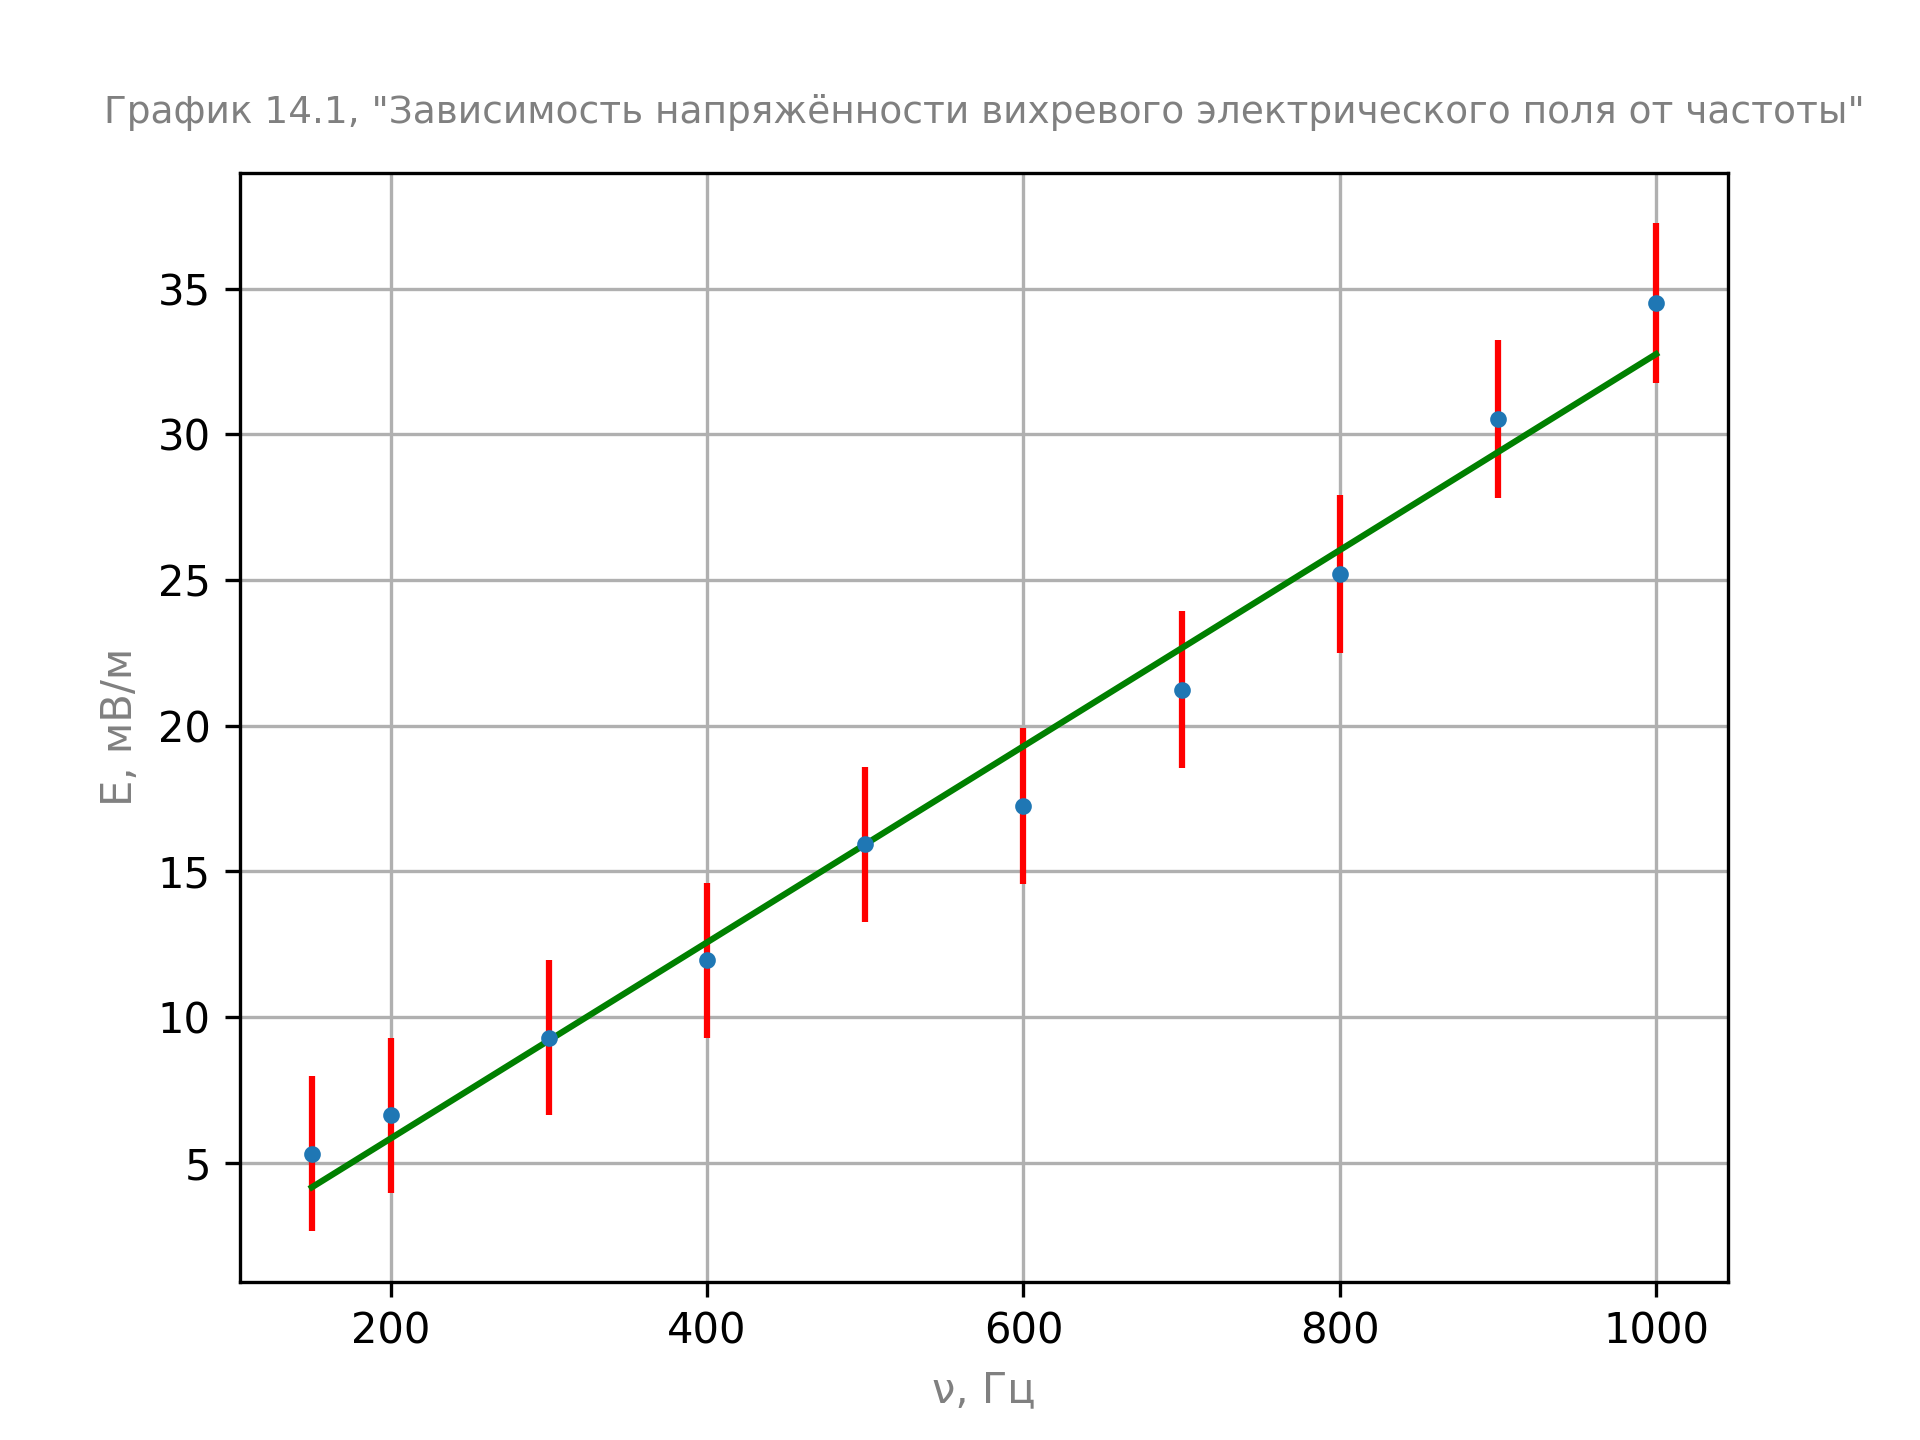
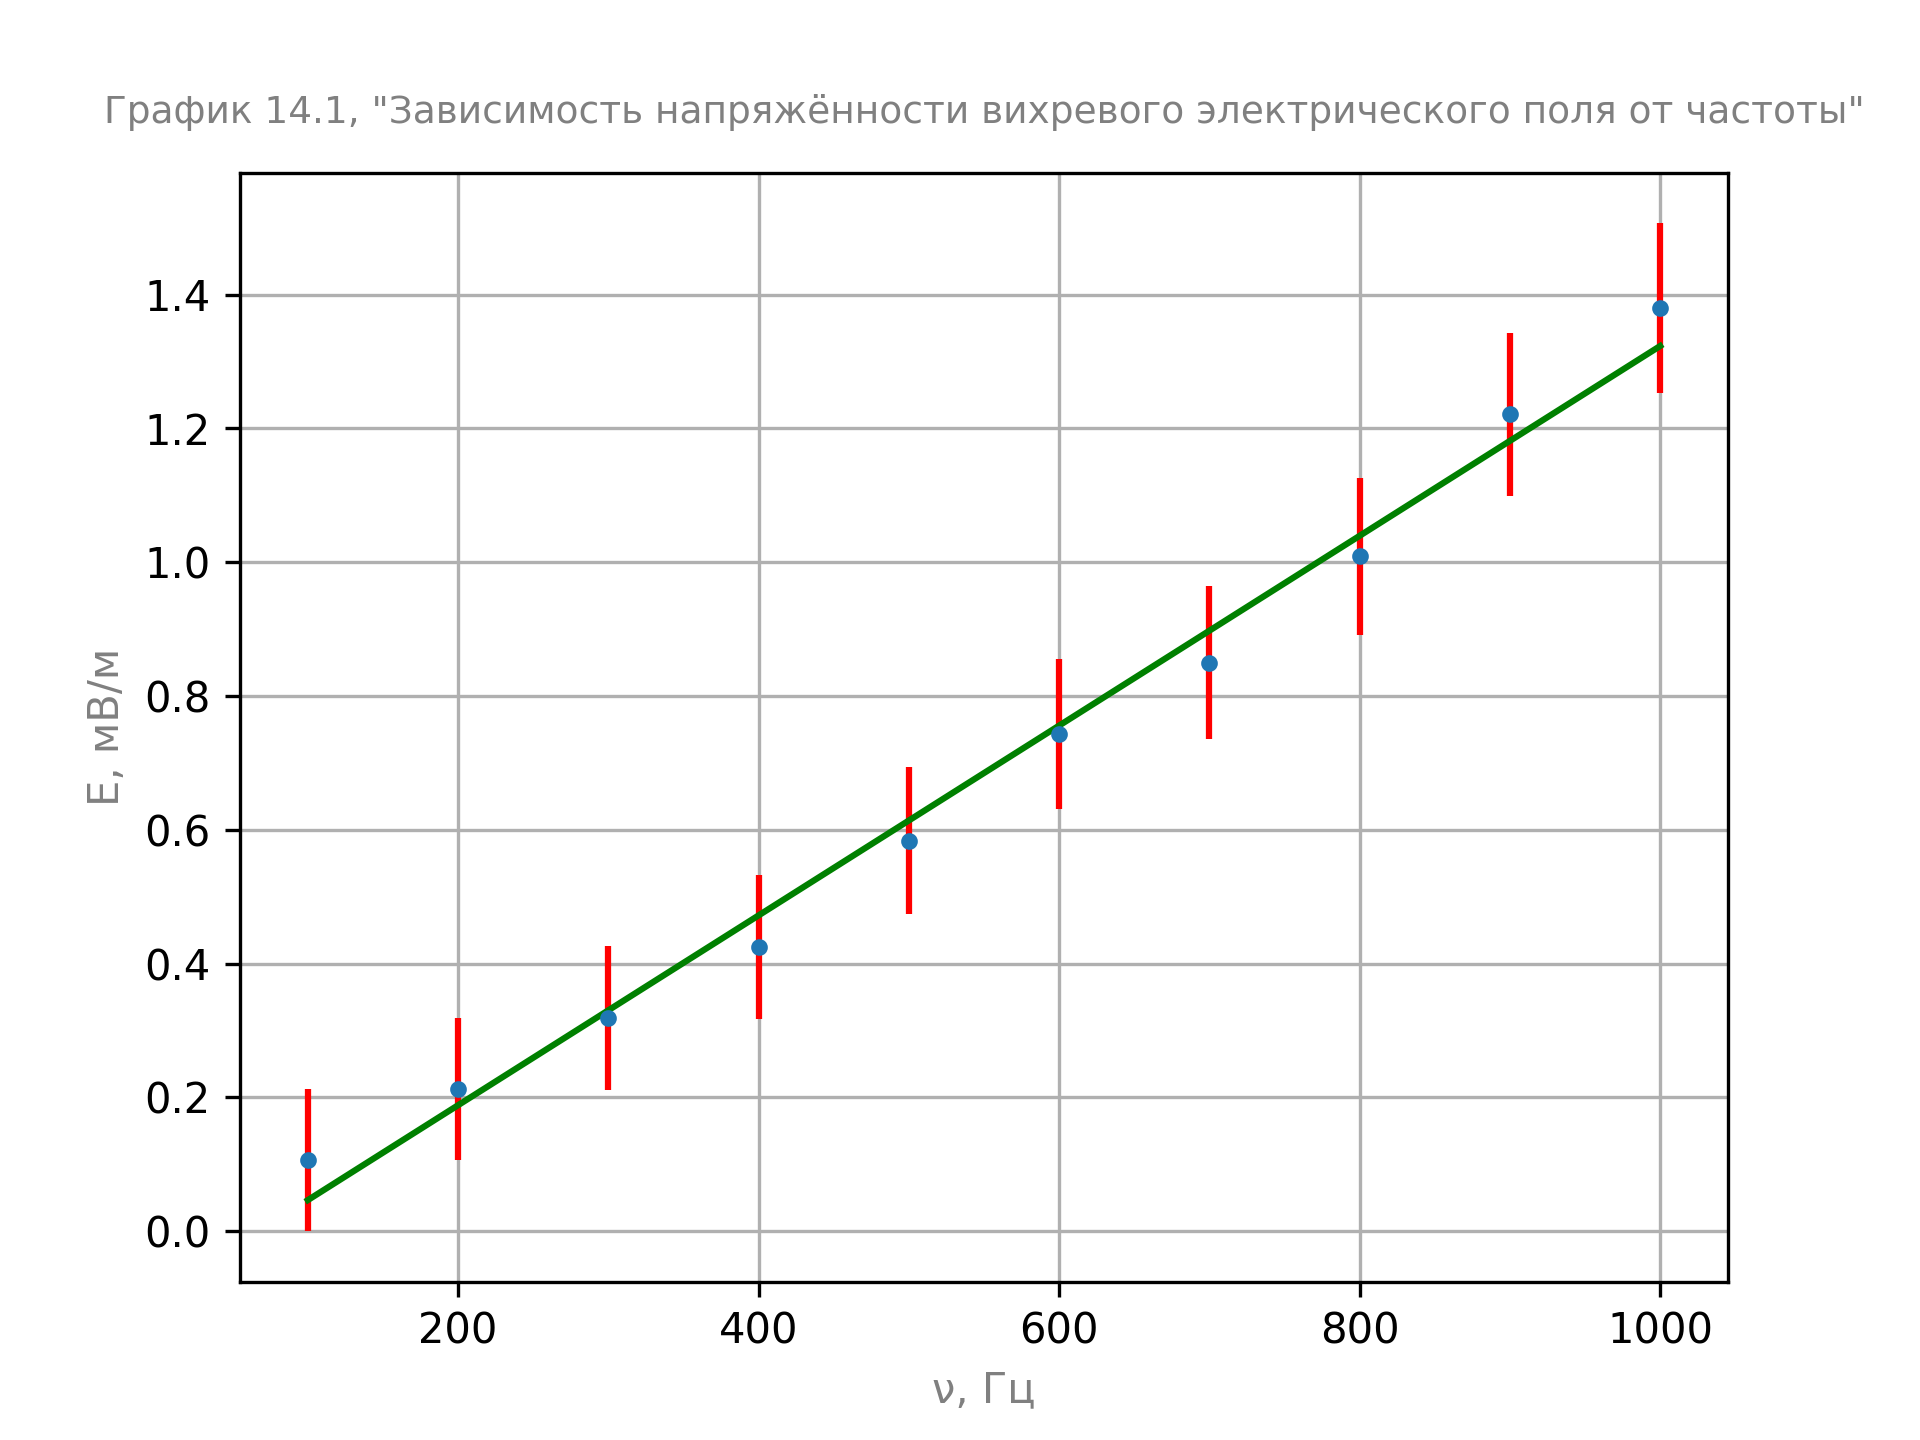
my last physics lab ever!!!!!!!!

diff --git a/lab3/task3.py b/lab3/task3.py
@@ -23,12 +23,12 @@ def get_mse_k_b(x, y):
 def draw_plots(x_array, y_array, x_error_array, y_error_array):
     plt.clf()
 
-    plt.errorbar(x_array, y_array, yerr=x_error_array, xerr=y_error_array, fmt='.', ecolor='red')
+    plt.errorbar(x_array, y_array * 1000, yerr=x_error_array * 1000, xerr=y_error_array, fmt='.', ecolor='red')
 
     k, b, dk = get_mse_k_b(x_array[0:3], y_array[0:3])
     x = np.linspace(min(x_array[0:3]), max(x_array[0:3]), 2)
     y = k * x + b
-    plt.plot(x, y, color='green')
+    plt.plot(x, y * 1000, color='green')
 
     x = x_array[2:]
     y = y_array[2:]
@@ -38,15 +38,15 @@ def draw_plots(x_array, y_array, x_error_array, y_error_array):
     s1 = sum([1 / x[i] for i in range(0, n)])  # сумма 1/x
     s2 = sum([(1 / x[i]) ** 2 for i in range(0, n)])  # сумма (1/x)**2
     s3 = sum([y[i] / x[i] for i in range(0, n)])  # сумма y/x
-    a = (s * s2 - s1 * s3) / (n * s2 - s1 ** 2)  # коэфициент а с тремя дробными цифрами
-    b = (n * s3 - s1 * s) / (n * s2 - s1 ** 2)  # коэфициент b с тремя дробными цифрами
+    a = (s * s2 - s1 * s3) / (n * s2 - s1 ** 2)
+    b = (n * s3 - s1 * s) / (n * s2 - s1 ** 2)
     s4 = [a + b / x[i] for i in range(0, n)]  # список значений гиперболической функции
     so = round(sum([abs(y[i] - s4[i]) for i in range(0, n)]) / (n * sum(y)) * 100, 3)  # средняя ошибка аппроксимации
 
     x1 = np.linspace(min(x_array[2:]), max(x_array[2:]), 200)
     s4 = np.array([a + b / xx for xx in x1])
 
-    plt.plot(x1, s4, color='green')
+    plt.plot(x1, s4 * 1000, color='green')
 
     plt.title('График 14.2, "Зависимость напряжённости вихревого электрического поля от\nрасстояния до оси соленоида"', color='gray', fontsize=9, pad=12)
     plt.xlabel('r, мм', color='gray')
@@ -61,8 +61,8 @@ solenoid_radius = 0.015
 
 table = {
     'r': np.array([5, 10, 15, 20, 30, 40, 60]),  # ring radius
-    'vd': np.array([.025, .025, .025, .025, .025, .025, .025]),  # volt per division
-    'dc': np.array([0.5, 1.4, 2.5, 3, 3.5, 3.8, 4])  # division count
+    'vd': np.array([.001, .001, .001, .001, .001, .001, .001]),  # volt per division
+    'dc': np.array([0.6, 1.6, 2.8, 3.2, 3.6, 4.0, 4.2])  # division count
 }
 
 table['sp'] = table['vd'] * table['dc']  # scope
@@ -75,6 +75,6 @@ table['e_abs_error'] = table['E'] * table['e_rel_error']
 print(f"Scope: {table['sp'] * 1000}\n")
 print(f"E: {table['E']* 1000}\n")
 print(f"E relevant error: {table['e_rel_error']}\n")
-print(f"E absolute error: {table['e_abs_error']* 1000}\n")
+print(f"E absolute error: {table['e_abs_error'] * 1000}\n")
 
 draw_plots(table['r'], table['E'] * 1000, table['e_abs_error'] * 1000, table['e_abs_error'] * 1000)

diff --git a/lab3/task2.py b/lab3/task2.py
@@ -42,18 +42,19 @@ def draw_plots(x_array, y_array, x_error_array, y_error_array):
 value_2_pi_r_N = 2 * 3.14 * 0.015 * 10
 
 table = {
-    'nu': np.array([150, 200, 300, 400, 500, 600, 700, 800, 900, 1000]),  # frequency
-    'vd': np.array([.025, .025, .025, .025, .025, .025, .025, .025, .025, .025]),  # volt per division
-    'dc': np.array([0.4, 0.5, 0.7, 0.9, 1.2, 1.3, 1.6, 1.9, 2.3, 2.6])  # division count
+    'nu': np.array([100, 200, 300, 400, 500, 600, 700, 800, 900, 1000]),  # frequency
+    'vd': np.array([.001, .001, .001, .001, .001, .001, .001, .001, .001, .001]),  # volt per division
+    'dc': np.array([0.2, 0.4, 0.6, 0.8, 1.1, 1.4, 1.6, 1.9, 2.3, 2.6])  # division count
 }
 
 table['sp'] = table['vd'] * table['dc']  # scope
 table['V'] = table['sp'] / 2
 table['E'] = table['V'] / value_2_pi_r_N
 
-table['e_rel_error'] = np.sqrt(0.02 ** 2 + (0.2 / table['dc']) ** 2)
+table['e_rel_error'] = np.sqrt(0.05 ** 2 + (0.2 / table['dc']) ** 2)
 table['e_abs_error'] = table['E'] * table['e_rel_error']
 
+print(f"U scope: {table['sp']}\n")
 print(f"E: {table['E'] * 1000}\n")
 print(f"E relevant error: {table['e_rel_error']}\n")
 print(f"E absolute error: {table['e_abs_error'] * 1000}\n")
